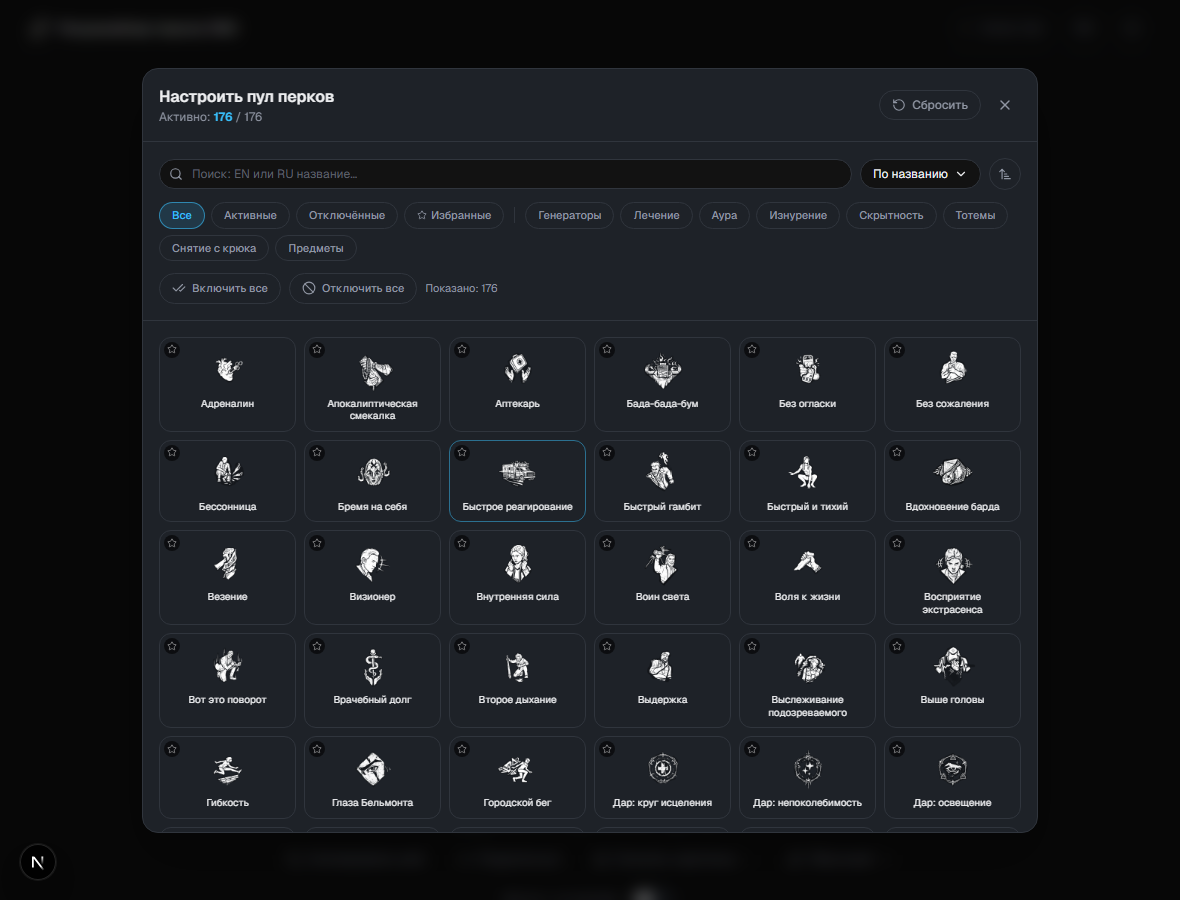
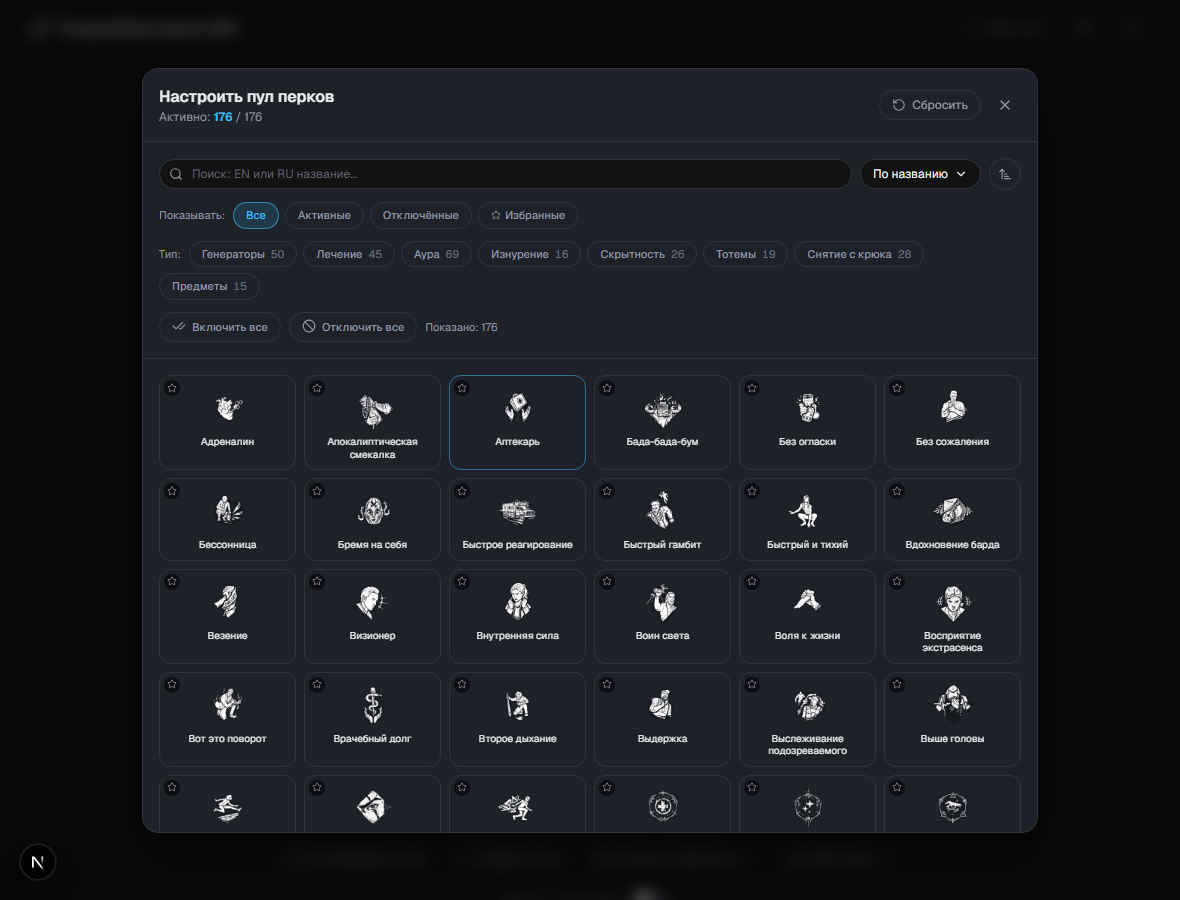
Split the pool filters into two groups, and count the tags
Eleven chips read as one flat list. Four of them pick WHICH perks (all,
active, disabled, favourites) and seven pick WHAT KIND (generators,
healing, aura…), and taking one from each group is a sensible thing to do
that nothing on screen suggested.

There was already a divider between them — a 1px rule inside a flex-wrap
row, which cannot know which visual line it landed on. The moment the chips
wrapped, the only thing separating the two groups was sitting in the middle
of a row. Same incompatibility the board's control panel documents.

Two labelled rows now, "Показывать:" and "Тип:", with the state group as a
radiogroup and the tag group as a plain group of toggles — nothing about a
chip's shape said which was single-select.

Each tag chip carries how many perks it would show. Narrowed by the state
filter and the search but NOT by the other tags, and the comment says why:
the state filter and search describe the list you are looking at, so "Aura
14" while filtered to Disabled would be the lie you act on — but the tags
are a multi-select OR group, so having them narrow each other would move
every number when you pick one, for a reason nothing explains. A tag that
matches nothing dims; it stays clickable, because disabling it would be a
behaviour change and the number is already the warning.

Memoised over one pass of the role's pool. The tags are baked into the perk
data by the scraper, so this is cheap, but it is still O(perks x tags) on
[…]

diff --git a/components/dbd/exclude-panel.tsx b/components/dbd/exclude-panel.tsx
@@ -78,6 +78,50 @@ export function ExcludePanel({
 
   const activeCount = perksForRole.filter((p) => !excludedSlugs.has(p.slug)).length;
 
+  /* How many perks each tag would show, if you clicked only that one.
+  
+     Narrowed by the state filter and the search, NOT by the other tags.
+     Both halves of that are deliberate:
+  
+     The state filter and the search describe the list you are looking at.
+     A tag reading "Aura 14" while you are filtered to Disabled and only
+     three of those are disabled is a lie about what clicking will do, and
+     it is the lie you would act on.
+  
+     The tags do not narrow each other because they are a multi-select OR
+     group: picking Healing would make every other tag's number drop, for a
+     reason nothing on screen explains, and picking a second tag is a
+     perfectly sensible thing to do. A number that moves when you touch a
+     different control is worse than no number.
+  
+     So each count answers exactly one question — "how many would this
+     chip show on its own, here?" — and the sum can exceed the list length
+     because a perk can carry several tags.
+  
+     One pass over the already-narrowed list, memoised: the tags live on
+     each perk (see lib/perk-tags.ts, written by the scraper) so this is a
+     cheap derivation, but it is still O(perks x tags) on every keystroke
+     if left in the render body. */
+  const tagCounts = useMemo(() => {
+    const query = search.trim().toLowerCase();
+    const counts = new Map<string, number>();
+    for (const tag of tags) counts.set(tag.id, 0);
+    for (const perk of perksForRole) {
+      if (status === "active" && excludedSlugs.has(perk.slug)) continue;
+      if (status === "disabled" && !excludedSlugs.has(perk.slug)) continue;
+      if (status === "favorite" && !favoriteSlugs.has(perk.slug)) continue;
+      if (query) {
+        const haystack = `${perk.name.en} ${perk.name.ru}`.toLowerCase();
+        if (!haystack.includes(query)) continue;
+      }
+      for (const tagId of getTagsForPerk(perk)) {
+        const current = counts.get(tagId);
+        if (current !== undefined) counts.set(tagId, current + 1);
+      }
+    }
+    return counts;
+  }, [perksForRole, tags, status, search, excludedSlugs, favoriteSlugs]);
+
   const filtered = useMemo(() => {
     const query = search.trim().toLowerCase();
     let list = perksForRole.filter((perk) => {
@@ -258,14 +302,38 @@ export function ExcludePanel({
                   </p>
                 )}
 
-                <div className="flex flex-wrap items-center gap-1.5">
+                {/* Two groups, two rows, each labelled.
+                
+                    They were one wrapping row with a 1px rule between them,
+                    and a divider inside a flex-wrap row cannot know which
+                    visual line it landed on — the moment the chips wrapped,
+                    the only thing separating eleven chips into two groups
+                    was sitting in the middle of a row. Same incompatibility
+                    the board's control panel documents.
+                
+                    They answer different questions: the first picks WHICH
+                    perks, the second picks WHAT KIND. One from each is a
+                    sensible thing to do, and the old flat list never said
+                    so. Labelled rather than just spaced, because the state
+                    row is single-select and the tag row is multi-select and
+                    nothing about a chip's shape says which. */}
+                <div
+                  role="radiogroup"
+                  aria-label={t({ ru: "Какие перки показывать", en: "Which perks to show" })}
+                  className="flex flex-wrap items-center gap-1.5"
+                >
+                  <span className="mr-0.5 text-hint text-muted">
+                    {t({ ru: "Показывать:", en: "Show:" })}
+                  </span>
                   {(["all", "active", "disabled", "favorite"] as const).map((option) => (
                     <button
                       key={option}
                       type="button"
+                      role="radio"
+                      aria-checked={status === option}
                       onClick={() => setStatus(option)}
                       className={cn(
-                        "flex items-center gap-1 rounded-full border px-3 py-1 text-[0.6875rem] font-medium transition-colors",
+                        "flex items-center gap-1 rounded-full border px-3 py-1 text-hint font-medium transition-colors",
                         status === option
                           ? cn(roleColor.border, roleColor.bg, roleColor.text)
                           : "border-border text-muted hover:bg-surface-hover hover:text-foreground",
@@ -281,22 +349,45 @@ export function ExcludePanel({
                             : t({ ru: "Избранные", en: "Favorites" })}
                     </button>
                   ))}
-                  <span className="mx-1 h-4 w-px bg-border" aria-hidden />
-                  {tags.map((tag) => (
-                    <button
-                      key={tag.id}
-                      type="button"
-                      onClick={() => toggleTag(tag.id)}
-                      className={cn(
-                        "rounded-full border px-3 py-1 text-[0.6875rem] font-medium transition-colors",
-                        selectedTags.has(tag.id)
-                          ? "border-accent/50 bg-accent/15 text-accent"
-                          : "border-border text-muted hover:bg-surface-hover hover:text-foreground",
-                      )}
-                    >
-                      {t({ ru: tag.ru, en: tag.en })}
-                    </button>
-                  ))}
+                </div>
+
+                <div
+                  role="group"
+                  aria-label={t({ ru: "Фильтр по типу перка", en: "Filter by perk type" })}
+                  className="flex flex-wrap items-center gap-1.5"
+                >
+                  <span className="mr-0.5 text-hint text-muted">
+                    {t({ ru: "Тип:", en: "Type:" })}
+                  </span>
+                  {tags.map((tag) => {
+                    const count = tagCounts.get(tag.id) ?? 0;
+                    return (
+                      <button
+                        key={tag.id}
+                        type="button"
+                        aria-pressed={selectedTags.has(tag.id)}
+                        onClick={() => toggleTag(tag.id)}
+                        className={cn(
+                          "flex items-center gap-1.5 rounded-full border px-3 py-1 text-hint font-medium transition-colors",
+                          selectedTags.has(tag.id)
+                            ? "border-accent/50 bg-accent/15 text-accent"
+                            : "border-border text-muted hover:bg-surface-hover hover:text-foreground",
+                          // Nothing to show, so say so rather than offering an
+                          // empty list. Still clickable — disabling it would
+                          // change behaviour, and the number is the warning.
+                          count === 0 && !selectedTags.has(tag.id) && "opacity-50",
+                        )}
+                      >
+                        {t({ ru: tag.ru, en: tag.en })}
+                        {/* aria-hidden: the count is a preview for the eye.
+                            A screen reader reading "Aura 14" as the button's
+                            name would make the name change as you type. */}
+                        <span aria-hidden className="tabular-nums opacity-60">
+                          {count}
+                        </span>
+                      </button>
+                    );
+                  })}
                 </div>
 
                 <div className="flex flex-wrap items-center gap-2">
